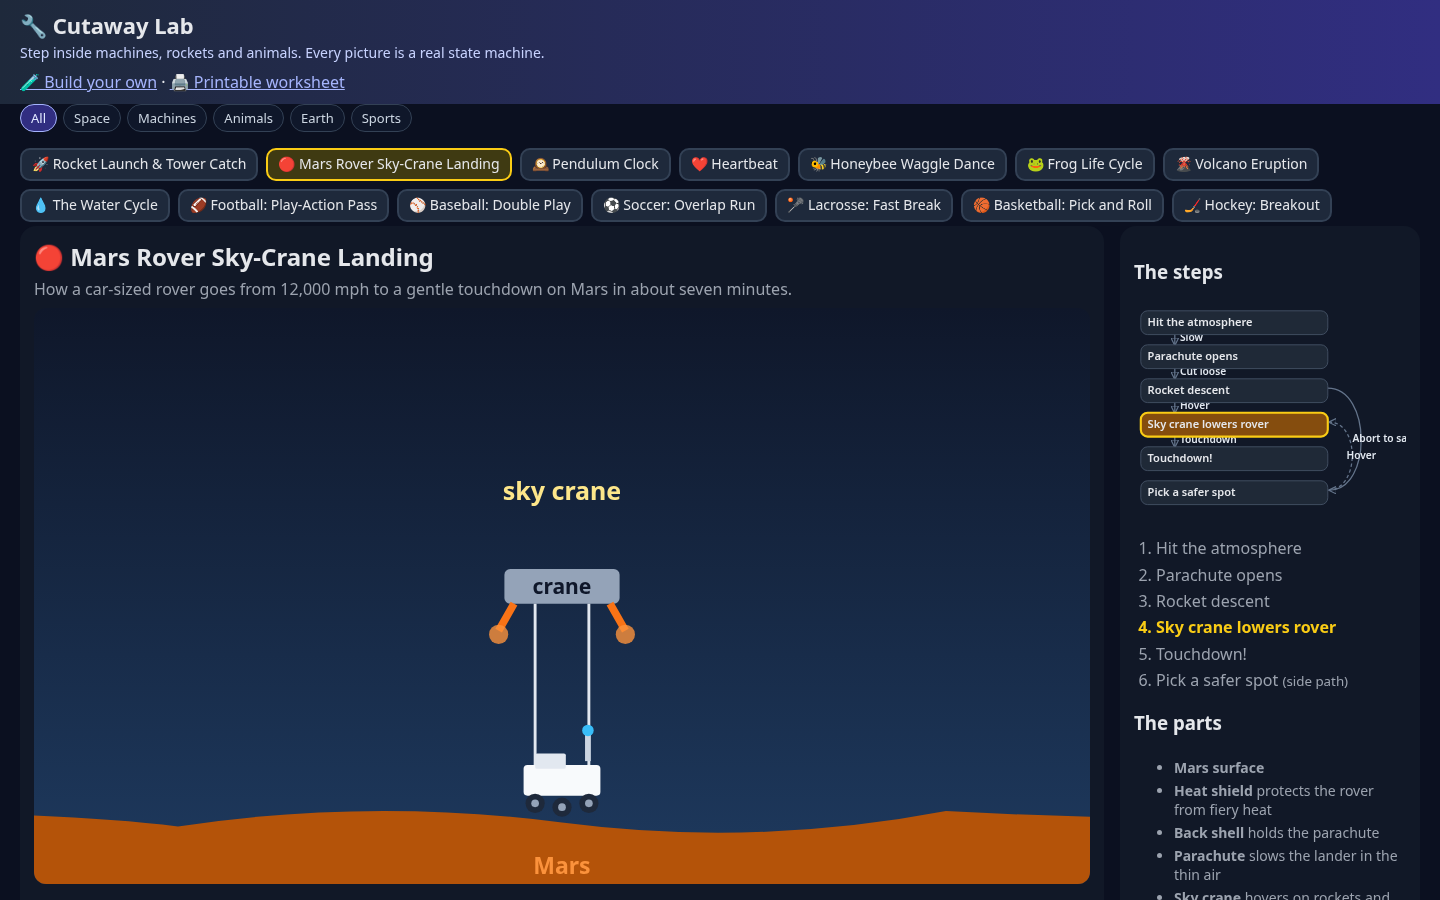
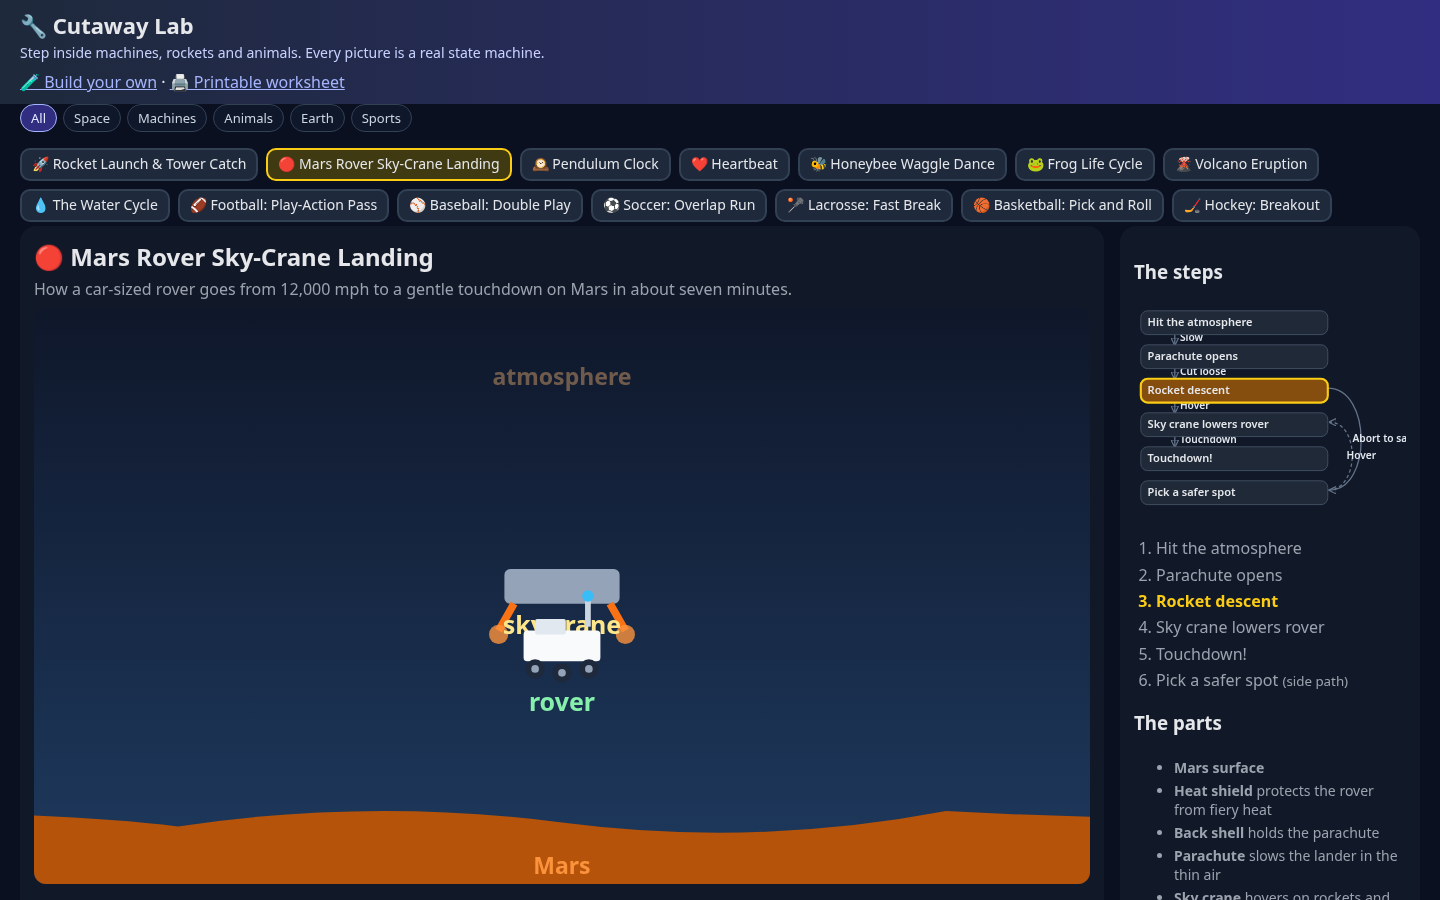
v1.0: mars sky-crane de-dupe label; candle melt-pool; pulley effort↓

diff --git a/machines/mars.js b/machines/mars.js
@@ -15,7 +15,7 @@ export default {
       svg: '<text x="200" y="220" text-anchor="middle" fill="#fdba74" font-size="12" font-weight="700">heat shield</text>', pose: { opacity: 1 } },
     { id: 'shell', label: 'Back shell', job: 'holds the parachute', svg: '<path d="M170 60 L185 30 H215 L230 60Z" fill="#e5e7eb"/>', explode: [60, -10] },
     { id: 'chute', label: 'Parachute', job: 'slows the lander in the thin air', svg: '<path d="M140 20 Q200 -40 260 20 Z" fill="#f8fafc" stroke="#ef4444" stroke-width="3"/><path d="M140 20 L190 30 M260 20 L210 30" stroke="#ddd"/>', pose: { opacity: 0 } },
-    { id: 'crane', label: 'Sky crane', job: 'hovers on rockets and lowers the rover on cables', svg: '<rect x="170" y="66" width="60" height="18" rx="3" fill="#94a3b8"/><text x="200" y="79" text-anchor="middle" fill="#0f172a" font-size="11" font-weight="700">crane</text><path d="M175 84 l-8 14 M225 84 l8 14" stroke="#f97316" stroke-width="4"/><circle cx="167" cy="100" r="5" fill="#fb923c" opacity=".8"/><circle cx="233" cy="100" r="5" fill="#fb923c" opacity=".8"/>', pose: { opacity: 0 }, explode: [70, -30] },
+    { id: 'crane', label: 'Sky crane', job: 'hovers on rockets and lowers the rover on cables', svg: '<rect x="170" y="66" width="60" height="18" rx="3" fill="#94a3b8"/><path d="M175 84 l-8 14 M225 84 l8 14" stroke="#f97316" stroke-width="4"/><circle cx="167" cy="100" r="5" fill="#fb923c" opacity=".8"/><circle cx="233" cy="100" r="5" fill="#fb923c" opacity=".8"/>', pose: { opacity: 0 }, explode: [70, -30] },
     { id: 'lblCrane', label: 'Crane label',
       svg: '<text x="200" y="100" text-anchor="middle" fill="#fde68a" font-size="13" font-weight="700">sky crane</text>', pose: { opacity: 0 } },
     { id: 'lblRover', label: 'Rover label',

diff --git a/machines/pulley.js b/machines/pulley.js
@@ -14,7 +14,7 @@ export default {
     { id: 'lblLoad', label: 'Load label',
       svg: '<text x="200" y="280" text-anchor="middle" fill="#86efac" font-size="13" font-weight="700">load</text>' },
     { id: 'lblDir', label: 'Direction label',
-      svg: '<text x="70" y="160" text-anchor="middle" fill="#c4b5fd" font-size="11" font-weight="700">↓ direction</text>' },
+      svg: '<text x="55" y="150" text-anchor="middle" fill="#c4b5fd" font-size="11" font-weight="700">effort ↓</text>' },
     { id: 'lblPull', label: 'Pull label',
       svg: '<text x="70" y="240" text-anchor="middle" fill="#f9a8d4" font-size="12" font-weight="700">pull</text>' },
     { id: 'lblRope', label: 'Rope label',

diff --git a/machines/candle.js b/machines/candle.js
@@ -43,7 +43,7 @@ export default {
       label: 'Burning',
       caption: 'Melted wax climbs the wick. The flame vaporizes it. Steady light!',
       on: { SNUFF: 'out', DROWN: 'drown' },
-      parts: { lblFlame: { opacity: 1 },  flame: { opacity: 1 }, pool: { opacity: 1 } },
+      parts: { lblFlame: { opacity: 1 }, lblPool: { opacity: 1 },  flame: { opacity: 1 }, pool: { opacity: 1 } },
     },
     out: {
       label: 'Snuffed',
